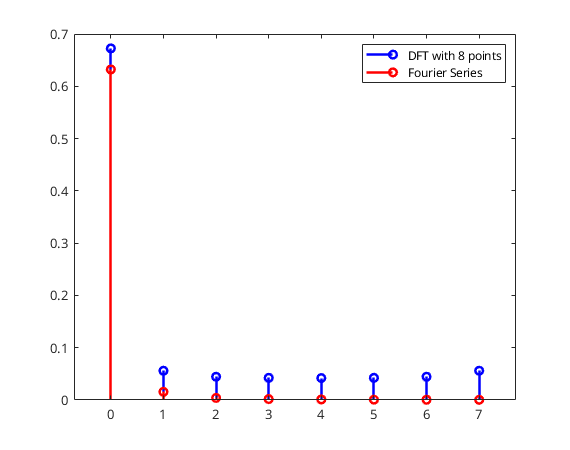
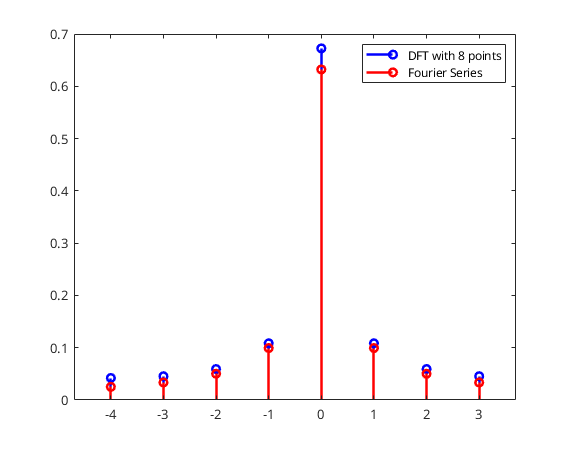
vault backup: 2025-04-17 15:41:59

diff --git a/Lista2/teste.m b/Lista2/teste.m
@@ -1,0 +1,45 @@
+clc; clear; close all;
+
+error_array = [];
+limit = 32;
+N = 8;
+
+while N <= limit
+    n = 0:N-1; % tempo discreto
+    k = -N/2:N/2-1; % índices da série de Fourier
+
+    % Definição do sinal
+    x = exp(-n); % sinal no tempo discreto
+    %x = x(:); % garante coluna
+
+    % Calcula a DFT e normaliza
+    X = fft(x); % DFT
+    X = X / N;  % normalização para comparar com X_k
+    X = fftshift(X); % reorganiza frequências para -N/2:N/2-1
+
+    % Calcula X_k da série de Fourier
+    X_k = 1 ./ (1 + 1i*2*pi*k); % vetor com valores X_k
+
+    % Plot
+    figure;
+    stem(k, abs(X), 'b', 'LineWidth', 2); hold on;
+    stem(k, abs(X_k), 'r--', 'LineWidth', 2);
+    legend(sprintf("DFT com %d pontos", N), "Série de Fourier");
+    xlabel('k');
+    ylabel('Re{X_k}');
+    title(sprintf("Comparação DFT vs Série de Fourier (%d pontos)", N));
+
+    % Erro médio quadrático
+    err = mean(abs(X - X_k).^2);
+    error_array = [error_array; err];
+
+    % Avança para o próximo N
+    N = N * 2;
+end
+
+% Plota o erro
+figure;
+bar([8,16,32], error_array);
+xlabel("N (número de pontos)");
+ylabel("Erro quadrático médio");
+title("Erro DFT vs Série de Fourier");
